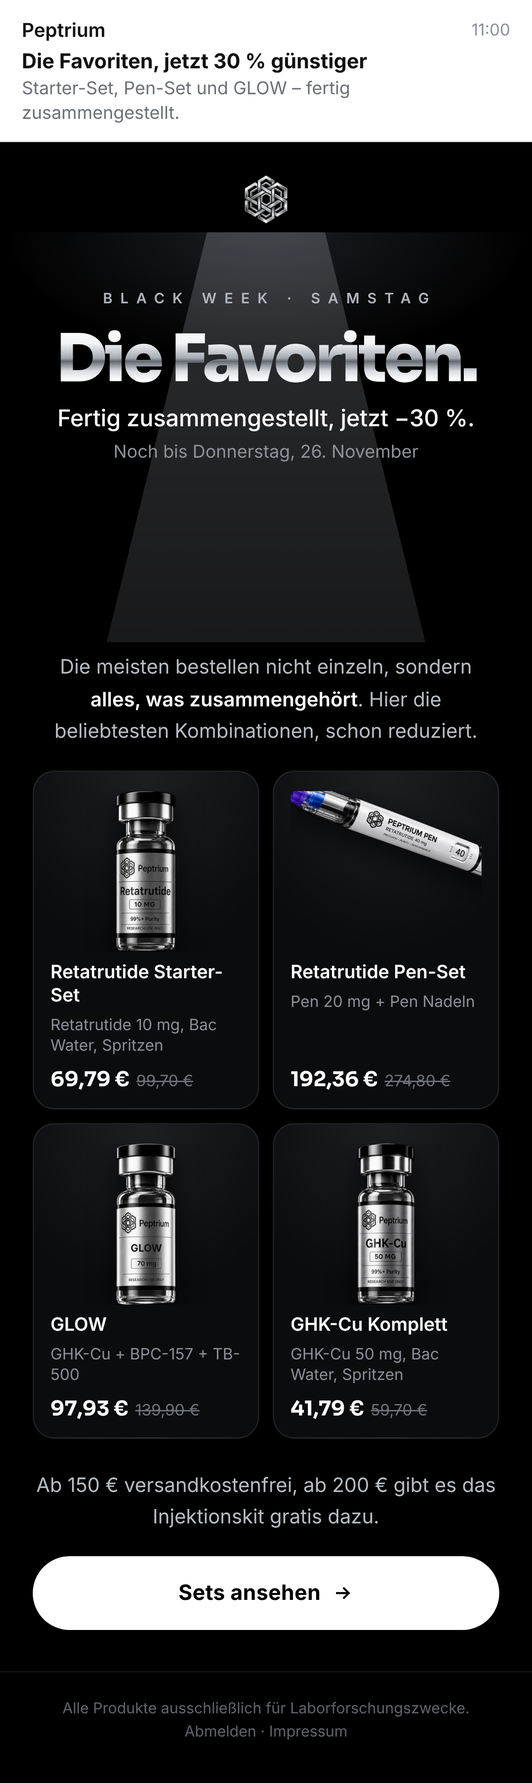
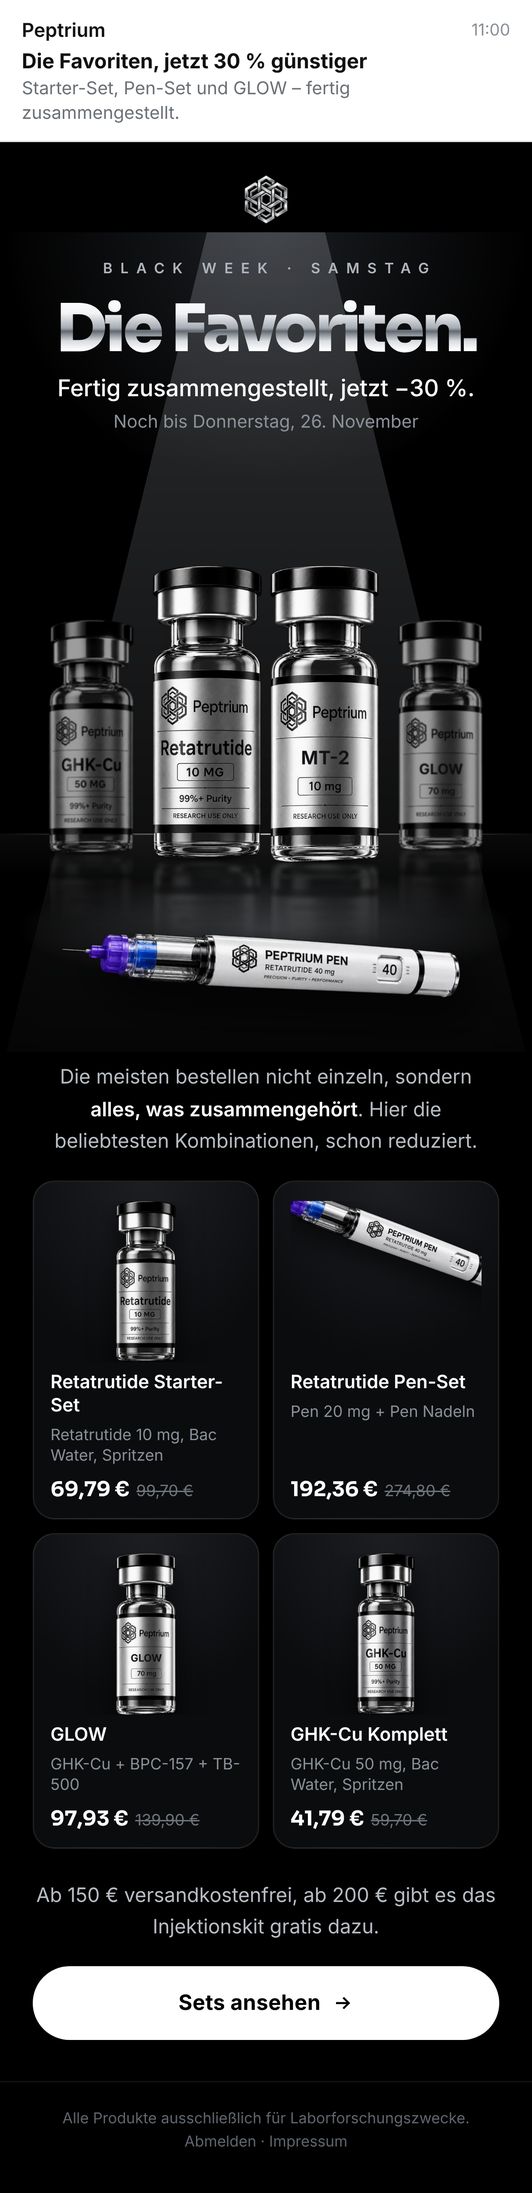
Black Week: 8 Mails überarbeitet (eigene Bilder je Mail, Start heute 20 Uhr)
Claude-Session: https://claude.ai/code/session_011YY7DBkbr5BcFGKyLoSbVN

diff --git a/drafts/blackweek-2026-11-16/hero/mail-5-blackfriday.html b/drafts/blackweek-2026-11-16/hero/mail-5-blackfriday.html
@@ -55,13 +55,7 @@ html,body{overflow-x:hidden}body{height:auto;min-height:844px;background:#0A0B0D
 .ps{font:400 12.5px/1.5 Inter;color:#7B8188;margin-top:18px}
 </style></head><body>
 <div class="inbox"><div class="f">Peptrium <span>08:00</span></div><div class="s">Black Friday: −35 % auf alles</div><div class="p">Der größte Rabatt des Jahres. Bis Montag.</div></div>
-<div class="m"><div class="ml"><img src="logo.png"></div><div class="sc2"><div class="beam"></div><div class="pool"></div><div class="floor"></div><div class="hz"></div>
- <div class="vw" data-src="ghk.png" data-rim="left" data-color="210,220,235" style="left:48px;top:350px;width:84px;filter:brightness(.62) blur(.4px)"></div>
- <div class="vw" data-src="glow.png" data-rim="right" data-color="210,220,235" style="left:258px;top:350px;width:84px;filter:brightness(.62) blur(.4px)"></div>
- <div class="vw" data-src="reta.png" data-rim="both" data-top="1" data-color="225,232,245" style="left:139px;top:300px;width:112px"></div>
- 
- <i class="dust" style="left:170px;top:200px;width:2px;height:2px;opacity:.5"></i><i class="dust" style="left:214px;top:260px;width:1.5px;height:1.5px;opacity:.35"></i><i class="dust" style="left:190px;top:320px;width:2.5px;height:2.5px;opacity:.25;filter:blur(1px)"></i><i class="dust" style="left:236px;top:160px;width:1.5px;height:1.5px;opacity:.45"></i><i class="dust" style="left:156px;top:290px;width:1px;height:1px;opacity:.6"></i>
- <div class="txt"><div class="ey">BLACK FRIDAY</div><div class="big chrome">−35<sup>%</sup></div><div class="l1">Der Höhepunkt der Black Week.</div><div class="l2">Nur bis Cyber Monday, 30. November · 23:59</div></div><div class="grain"></div></div>
+<div class="m"><div class="ml"><img src="logo.png"></div><div class="sc2" style="height:600px"><div class="beam" style="transform:translateX(-50%);background:linear-gradient(180deg,rgba(240,244,252,.30),rgba(220,228,240,.07) 70%,transparent)"></div><div class="pool" style="top:470px;transform:translateX(-50%)"></div><div class="floor" style="top:520px"></div><div class="hz" style="top:520px"></div><div class="txt"><div class="ey">BLACK FRIDAY · CYBER MONDAY</div><div class="big chrome">−35<sup>%</sup></div><div class="l1">Der Höhepunkt der Black Week.</div><div class="l2">Nur bis Montag, 30. November · 23:59</div></div><div class="vw" data-src="bpc.png" data-rim="left" data-color="215,225,240"  style="left:6px;top:372px;width:64px;filter:brightness(.62) blur(.4px);"></div><div class="vw" data-src="mt2.png" data-rim="right" data-color="215,225,240"  style="left:320px;top:372px;width:64px;filter:brightness(.62) blur(.4px);"></div><div class="vw" data-src="ghk.png" data-rim="left" data-color="215,225,240"  style="left:62px;top:336px;width:80px;"></div><div class="vw" data-src="glow.png" data-rim="right" data-color="215,225,240"  style="left:248px;top:336px;width:80px;"></div><div class="vw" data-src="reta.png" data-rim="both" data-color="215,225,240" data-top=1 style="left:140px;top:296px;width:110px;"></div><div class="grain"></div></div>
 <div class="bd"><p>Ab jetzt <b>−35 % auf das gesamte Sortiment</b> – Peptide, Pens und Zubehör. Ohne Code, direkt im Preis.</p><div class="cards"><div class="card"><div class="im"><img src="reta.png"></div><b>Retatrutide Starter-Set</b><span>Retatrutide 10 mg, Bac Water, Spritzen</span><div class="pp">64,81 €<s>99,70 €</s></div></div><div class="card"><div class="im"><img class="penimg" src="pen.png"></div><b>Retatrutide Pen-Set</b><span>Pen 20 mg + Pen Nadeln</span><div class="pp">178,62 €<s>274,80 €</s></div></div><div class="card"><div class="im"><img src="glow.png"></div><b>GLOW</b><span>GHK-Cu + BPC-157 + TB-500</span><div class="pp">90,94 €<s>139,90 €</s></div></div><div class="card"><div class="im"><img src="ghk.png"></div><b>GHK-Cu Komplett</b><span>GHK-Cu 50 mg, Bac Water, Spritzen</span><div class="pp">38,80 €<s>59,70 €</s></div></div></div><div class="ck"><div>Versand in 2 Werktagen, diskret verpackt</div><div>Geschenke ab 200 € bleiben</div><div>Bei Vorkasse zählt das Bestelldatum</div></div><div class="cta">Zum Black Friday<svg viewBox="0 0 24 24"><path d="M5 12h14M13 6l6 6-6 6"/></svg></div></div>
 <div class="ft">Alle Produkte ausschließlich für Laborforschungszwecke.<br>Abmelden · Impressum</div></div>
 <script src="vial.js"></script></body></html>

diff --git a/drafts/blackweek-2026-11-16/hero/mail-1-start.html b/drafts/blackweek-2026-11-16/hero/mail-1-start.html
@@ -54,7 +54,7 @@ html,body{overflow-x:hidden}body{height:auto;min-height:844px;background:#0A0B0D
 .ft{font:400 11px/1.5 Inter;color:#5F656C;text-align:center;padding:18px 24px 30px;border-top:1px solid rgba(255,255,255,.07)}
 .ps{font:400 12.5px/1.5 Inter;color:#7B8188;margin-top:18px}
 </style></head><body>
-<div class="inbox"><div class="f">Peptrium <span>00:05</span></div><div class="s">Black Week: −30 % auf alles</div><div class="p">Peptide, Pens und Zubehör – automatisch reduziert.</div></div>
+<div class="inbox"><div class="f">Peptrium <span>20:00</span></div><div class="s">Black Week: −30 % auf alles 🖤</div><div class="p">Ab jetzt: Peptide, Pens und Zubehör – automatisch reduziert.</div></div>
 <div class="m"><div class="ml"><img src="logo.png"></div><div class="sc2"><div class="beam"></div><div class="pool"></div><div class="floor"></div><div class="hz"></div>
  <div class="vw" data-src="ghk.png" data-rim="left" data-color="210,220,235" style="left:48px;top:350px;width:84px;filter:brightness(.62) blur(.4px)"></div>
  <div class="vw" data-src="glow.png" data-rim="right" data-color="210,220,235" style="left:258px;top:350px;width:84px;filter:brightness(.62) blur(.4px)"></div>
@@ -62,6 +62,6 @@ html,body{overflow-x:hidden}body{height:auto;min-height:844px;background:#0A0B0D
  
  <i class="dust" style="left:170px;top:200px;width:2px;height:2px;opacity:.5"></i><i class="dust" style="left:214px;top:260px;width:1.5px;height:1.5px;opacity:.35"></i><i class="dust" style="left:190px;top:320px;width:2.5px;height:2.5px;opacity:.25;filter:blur(1px)"></i><i class="dust" style="left:236px;top:160px;width:1.5px;height:1.5px;opacity:.45"></i><i class="dust" style="left:156px;top:290px;width:1px;height:1px;opacity:.6"></i>
  <div class="txt"><div class="ey">BLACK WEEK</div><div class="big chrome">−30<sup>%</sup></div><div class="l1">auf das gesamte Sortiment.</div><div class="l2">Bis Donnerstag, 26. November</div></div><div class="grain"></div></div>
-<div class="bd"><p>Ab heute ist <b>jedes Produkt 30 % günstiger</b>. Ohne Code, direkt im Preis. Die Geschenke ab 200 € gibt es weiterhin dazu.</p><div class="pl"></div><div class="pr"><div>Retatrutide<br><span>10 mg</span></div><div><s>79,90 €</s><b>55,93 €</b></div></div><div class="pr"><div>Retatrutide<br><span>20 mg</span></div><div><s>149,90 €</s><b>104,93 €</b></div></div><div class="pr"><div>GHK-Cu<br><span>50 mg</span></div><div><s>39,90 €</s><b>27,93 €</b></div></div><div class="pr"><div>GLOW<br><span>70 mg</span></div><div><s>139,90 €</s><b>97,93 €</b></div></div><div class="pr"><div>Peptrium-Pen<br><span>Retatrutide 20 mg</span></div><div><s>264,90 €</s><b>185,43 €</b></div></div><p class="ps">Und Freitag? Wird es noch besser. Du erfährst es zuerst.</p><div class="cta">Zum Shop<svg viewBox="0 0 24 24"><path d="M5 12h14M13 6l6 6-6 6"/></svg></div></div>
+<div class="bd"><p>Ab sofort ist <b>jedes Produkt 30 % günstiger</b> – bis Donnerstag, 26. November. Ohne Code, direkt im Preis. Die Geschenke ab 200 € gibt es weiterhin dazu.</p><div class="pl"></div><div class="pr"><div>Retatrutide<br><span>10 mg</span></div><div><s>79,90 €</s><b>55,93 €</b></div></div><div class="pr"><div>Retatrutide<br><span>20 mg</span></div><div><s>149,90 €</s><b>104,93 €</b></div></div><div class="pr"><div>GHK-Cu<br><span>50 mg</span></div><div><s>39,90 €</s><b>27,93 €</b></div></div><div class="pr"><div>GLOW<br><span>70 mg</span></div><div><s>139,90 €</s><b>97,93 €</b></div></div><div class="pr"><div>Peptrium-Pen<br><span>Retatrutide 20 mg</span></div><div><s>264,90 €</s><b>185,43 €</b></div></div><p class="ps">Und Freitag? Wird es noch besser. Du erfährst es zuerst.</p><div class="cta">Zum Shop<svg viewBox="0 0 24 24"><path d="M5 12h14M13 6l6 6-6 6"/></svg></div></div>
 <div class="ft">Alle Produkte ausschließlich für Laborforschungszwecke.<br>Abmelden · Impressum</div></div>
 <script src="vial.js"></script></body></html>

diff --git a/drafts/blackweek-2026-11-16/hero/mail-2-favoriten.html b/drafts/blackweek-2026-11-16/hero/mail-2-favoriten.html
@@ -55,7 +55,7 @@ html,body{overflow-x:hidden}body{height:auto;min-height:844px;background:#0A0B0D
 .ps{font:400 12.5px/1.5 Inter;color:#7B8188;margin-top:18px}
 </style></head><body>
 <div class="inbox"><div class="f">Peptrium <span>11:00</span></div><div class="s">Die Favoriten, jetzt 30 % günstiger</div><div class="p">Starter-Set, Pen-Set und GLOW – fertig zusammengestellt.</div></div>
-<div class="m"><div class="ml"><img src="logo.png"></div><div class="sc2 sm"><div class="beam" style="display:block;transform:translateX(-50%)"></div><div class="txt" style="top:44px"><div class="ey">BLACK WEEK · SAMSTAG</div><div class="big2 chrome">Die Favoriten.</div><div class="l1">Fertig zusammengestellt, jetzt −30 %.</div><div class="l2">Noch bis Donnerstag, 26. November</div></div><div class="grain"></div></div>
+<div class="m"><div class="ml"><img src="logo.png"></div><div class="sc2" style="height:600px"><div class="beam" style="transform:translateX(-50%);"></div><div class="pool" style="top:450px;transform:translateX(-50%)"></div><div class="floor" style="top:500px"></div><div class="hz" style="top:500px"></div><div class="txt"><div class="ey">BLACK WEEK · SAMSTAG</div><div class="big2 chrome">Die Favoriten.</div><div class="l1">Fertig zusammengestellt, jetzt −30 %.</div><div class="l2">Noch bis Donnerstag, 26. November</div></div><div class="vw" data-src="ghk.png" data-rim="left" data-color="215,225,240"  style="left:36px;top:344px;width:62px;filter:brightness(.62) blur(.4px);"></div><div class="vw" data-src="glow.png" data-rim="right" data-color="215,225,240"  style="left:292px;top:344px;width:62px;filter:brightness(.62) blur(.4px);"></div><div class="vw" data-src="reta.png" data-rim="left" data-color="215,225,240"  style="left:112px;top:304px;width:80px;"></div><div class="vw" data-src="mt2.png" data-rim="right" data-color="215,225,240"  style="left:198px;top:304px;width:80px;"></div><img src="pen.png" style="position:absolute;left:50%;top:446px;width:250px;margin-left:-125px;transform:rotate(-31deg);filter:drop-shadow(0 18px 16px rgba(0,0,0,.85));z-index:6"><div class="grain"></div></div>
 <div class="bd"><p>Die meisten bestellen nicht einzeln, sondern <b>alles, was zusammengehört</b>. Hier die beliebtesten Kombinationen, schon reduziert.</p><div class="cards"><div class="card"><div class="im"><img src="reta.png"></div><b>Retatrutide Starter-Set</b><span>Retatrutide 10 mg, Bac Water, Spritzen</span><div class="pp">69,79 €<s>99,70 €</s></div></div><div class="card"><div class="im"><img class="penimg" src="pen.png"></div><b>Retatrutide Pen-Set</b><span>Pen 20 mg + Pen Nadeln</span><div class="pp">192,36 €<s>274,80 €</s></div></div><div class="card"><div class="im"><img src="glow.png"></div><b>GLOW</b><span>GHK-Cu + BPC-157 + TB-500</span><div class="pp">97,93 €<s>139,90 €</s></div></div><div class="card"><div class="im"><img src="ghk.png"></div><b>GHK-Cu Komplett</b><span>GHK-Cu 50 mg, Bac Water, Spritzen</span><div class="pp">41,79 €<s>59,70 €</s></div></div></div><p>Ab 150 € versandkostenfrei, ab 200 € gibt es das Injektionskit gratis dazu.</p><div class="cta">Sets ansehen<svg viewBox="0 0 24 24"><path d="M5 12h14M13 6l6 6-6 6"/></svg></div></div>
 <div class="ft">Alle Produkte ausschließlich für Laborforschungszwecke.<br>Abmelden · Impressum</div></div>
 <script src="vial.js"></script></body></html>

diff --git a/drafts/blackweek-2026-11-16/hero/mail-7-letzte.html b/drafts/blackweek-2026-11-16/hero/mail-7-letzte.html
@@ -55,7 +55,7 @@ html,body{overflow-x:hidden}body{height:auto;min-height:844px;background:#0A0B0D
 .ps{font:400 12.5px/1.5 Inter;color:#7B8188;margin-top:18px}
 </style></head><body>
 <div class="inbox"><div class="f">Peptrium <span>10:00</span></div><div class="s">Heute 23:59 ist Schluss</div><div class="p">Letzter Tag: −35 % auf alles.</div></div>
-<div class="m"><div class="ml"><img src="logo.png"></div><div class="sc2 sm"><div class="beam" style="display:block;transform:translateX(-50%)"></div><div class="txt" style="top:44px"><div class="ey">CYBER MONDAY · LETZTER TAG</div><div class="big2 chrome">Letzter Tag.</div><div class="l1">−35 % nur noch bis 23:59.</div><div class="l2">Danach gelten wieder die normalen Preise.</div></div><div class="grain"></div></div>
+<div class="m"><div class="ml"><img src="logo.png"></div><div class="sc2" style="height:500px"><div class="beam" style="transform:translateX(-50%);"></div><div class="pool" style="top:380px;transform:translateX(-50%)"></div><div class="floor" style="top:430px"></div><div class="hz" style="top:430px"></div><div class="txt" style="top:34px"><div class="ey">CYBER MONDAY · LETZTER TAG</div><div class="big chrome" style="font-size:112px;letter-spacing:-.04em">23:59</div><div class="l1">Heute endet die Black Week.</div><div class="l2">Danach gelten wieder die normalen Preise.</div></div><div class="vw" data-src="ghk.png" data-rim="left" data-color="215,225,240"  style="left:70px;top:316px;width:66px;filter:brightness(.62) blur(.4px);"></div><div class="vw" data-src="glow.png" data-rim="right" data-color="215,225,240"  style="left:254px;top:316px;width:66px;filter:brightness(.62) blur(.4px);"></div><div class="vw" data-src="reta.png" data-rim="both" data-color="215,225,240" data-top=1 style="left:148px;top:276px;width:94px;"></div><div class="grain"></div></div>
 <div class="bd"><div class="cd"><div><b>00</b><span>TAGE</span></div><div><b>13</b><span>STD</span></div><div><b>59</b><span>MIN</span></div><div><b>12</b><span>SEK</span></div></div><p>Das war die Black Week 2026. Wenn du noch etwas brauchst: <b>heute ist der letzte Tag</b>.</p><div class="cards"><div class="card"><div class="im"><img src="reta.png"></div><b>Retatrutide Starter-Set</b><span>Retatrutide 10 mg, Bac Water, Spritzen</span><div class="pp">64,81 €<s>99,70 €</s></div></div><div class="card"><div class="im"><img class="penimg" src="pen.png"></div><b>Retatrutide Pen-Set</b><span>Pen 20 mg + Pen Nadeln</span><div class="pp">178,62 €<s>274,80 €</s></div></div><div class="card"><div class="im"><img src="glow.png"></div><b>GLOW</b><span>GHK-Cu + BPC-157 + TB-500</span><div class="pp">90,94 €<s>139,90 €</s></div></div><div class="card"><div class="im"><img src="ghk.png"></div><b>GHK-Cu Komplett</b><span>GHK-Cu 50 mg, Bac Water, Spritzen</span><div class="pp">38,80 €<s>59,70 €</s></div></div></div><div class="ck"><div>Es zählt deine Bestellung, nicht der Zahlungseingang</div><div>Versand in 2 Werktagen</div></div><div class="cta">Letzte Chance nutzen<svg viewBox="0 0 24 24"><path d="M5 12h14M13 6l6 6-6 6"/></svg></div></div>
 <div class="ft">Alle Produkte ausschließlich für Laborforschungszwecke.<br>Abmelden · Impressum</div></div>
 <script src="vial.js"></script></body></html>

diff --git a/drafts/blackweek-2026-11-16/hero/mail-3-teaser.html b/drafts/blackweek-2026-11-16/hero/mail-3-teaser.html
@@ -55,7 +55,7 @@ html,body{overflow-x:hidden}body{height:auto;min-height:844px;background:#0A0B0D
 .ps{font:400 12.5px/1.5 Inter;color:#7B8188;margin-top:18px}
 </style></head><body>
 <div class="inbox"><div class="f">Peptrium <span>18:00</span></div><div class="s">Morgen 18 Uhr: dein früher Zugang</div><div class="p">Black Friday startet für dich einen Abend vor allen anderen.</div></div>
-<div class="m"><div class="ml"><img src="logo.png"></div><div class="sc2 sm"><div class="beam" style="display:block;transform:translateX(-50%)"></div><div class="txt" style="top:44px"><div class="ey">NUR FÜR INSIDER</div><div class="big2 chrome">Morgen, 18 Uhr.</div><div class="l1">Black Friday – für dich zuerst.</div><div class="l2">Donnerstag, 26. November</div></div><div class="grain"></div></div>
-<div class="bd"><p>Freitag steigt der Rabatt. <b>Du bekommst ihn schon Donnerstag um 18 Uhr</b> – per Mail, mit deinem persönlichen Link.</p><div class="tl"><div class="on"><b>Bis Do</b>−30 % für alle</div><div class="on"><b>Do 18 Uhr</b>du zuerst</div><div><b>Fr–Mo</b>für alle</div></div><p>Tipp: Leg dir heute schon in den Warenkorb, was du willst. Dann geht es morgen in einer Minute.</p><div class="cta">Warenkorb vorbereiten<svg viewBox="0 0 24 24"><path d="M5 12h14M13 6l6 6-6 6"/></svg></div></div>
+<div class="m"><div class="ml"><img src="logo.png"></div><div class="sc2" style="height:520px"><div class="beam" style="transform:translateX(-50%);"></div><div class="pool" style="top:400px;transform:translateX(-50%)"></div><div class="floor" style="top:450px"></div><div class="hz" style="top:450px"></div><div class="txt" style="top:40px"><div class="ey">NUR FÜR INSIDER</div><div class="big chrome" style="font-size:120px">−3?<sup>%</sup></div><div class="l1">Freitag wird größer.</div><div class="l2">Und du bist einen Abend früher dran.</div></div><div class="vw" data-src="reta.png" data-rim="both" data-color="215,225,240" data-top=1 style="left:150px;top:300px;width:90px;"></div><div class="grain"></div></div>
+<div class="bd"><p>Am Freitag steigt der Rabatt. Wie hoch, verraten wir morgen. <b>Du bekommst ihn schon Donnerstag um 18 Uhr</b> – per Mail, mit deinem persönlichen Link.</p><div class="tl"><div class="on"><b>Bis Do</b>−30 % für alle</div><div class="on"><b>Do 18 Uhr</b>du zuerst</div><div><b>Fr–Mo</b>für alle</div></div><p>Tipp: Leg dir heute schon in den Warenkorb, was du willst. Dann geht es morgen in einer Minute.</p><div class="cta">Warenkorb vorbereiten<svg viewBox="0 0 24 24"><path d="M5 12h14M13 6l6 6-6 6"/></svg></div></div>
 <div class="ft">Alle Produkte ausschließlich für Laborforschungszwecke.<br>Abmelden · Impressum</div></div>
 <script src="vial.js"></script></body></html>

diff --git a/drafts/blackweek-2026-11-16/hero/gen_mails.py b/drafts/blackweek-2026-11-16/hero/gen_mails.py
@@ -67,32 +67,47 @@ def hero_pen(ey,big,l1,l2):
 def penlist(f):
     rows=[('Peptrium-Pen Retatrutide','20 mg',264.90),('Peptrium-Pen Retatrutide','30 mg',None),('Peptrium-Pen GHK-Cu','50 mg',None),('Peptrium-Pen MOTS-c','20 mg',None)]
     return ''
+def vial(src,l,top,w,dim=False,rim='both',topl=False):
+    f='filter:brightness(.62) blur(.4px);' if dim else ''
+    return f'<div class="vw" data-src="{src}" data-rim="{rim}" data-color="215,225,240" {"data-top=1" if topl else ""} style="left:{l}px;top:{top}px;width:{w}px;{f}"></div>'
+def stage(h,beam=True,bright=False,floor=None):
+    fl=floor if floor is not None else h-90
+    b=f'<div class="beam" style="transform:translateX(-50%);{"background:linear-gradient(180deg,rgba(240,244,252,.30),rgba(220,228,240,.07) 70%,transparent)" if bright else ""}"></div>' if beam else ''
+    return b+f'<div class="pool" style="top:{fl-50}px;transform:translateX(-50%)"></div><div class="floor" style="top:{fl}px"></div><div class="hz" style="top:{fl}px"></div>'
+def hero_sets(ey,big,l1,l2):
+    return f'<div class="sc2" style="height:600px">{stage(600,floor=500)}<div class="txt"><div class="ey">{ey}</div><div class="big2 chrome">{big}</div><div class="l1">{l1}</div><div class="l2">{l2}</div></div>'+vial('ghk.png',36,344,62,True,'left')+vial('glow.png',292,344,62,True,'right')+vial('reta.png',112,304,80,False,'left')+vial('mt2.png',198,304,80,False,'right')+'<img src="pen.png" style="position:absolute;left:50%;top:446px;width:250px;margin-left:-125px;transform:rotate(-31deg);filter:drop-shadow(0 18px 16px rgba(0,0,0,.85));z-index:6"><div class="grain"></div></div>'
+def hero_teaser():
+    return f'<div class="sc2" style="height:520px">{stage(520,floor=450)}<div class="txt" style="top:40px"><div class="ey">NUR FÜR INSIDER</div><div class="big chrome" style="font-size:120px">−3?<sup>%</sup></div><div class="l1">Freitag wird größer.</div><div class="l2">Und du bist einen Abend früher dran.</div></div>'+vial('reta.png',150,300,90,False,'both',True)+'<div class="grain"></div></div>'
+def hero_bf():
+    return f'<div class="sc2" style="height:600px">{stage(600,bright=True,floor=520)}<div class="txt"><div class="ey">BLACK FRIDAY · CYBER MONDAY</div><div class="big chrome">−35<sup>%</sup></div><div class="l1">Der Höhepunkt der Black Week.</div><div class="l2">Nur bis Montag, 30. November · 23:59</div></div>'+vial('bpc.png',6,372,64,True,'left')+vial('mt2.png',320,372,64,True,'right')+vial('ghk.png',62,336,80,False,'left')+vial('glow.png',248,336,80,False,'right')+vial('reta.png',140,296,110,False,'both',True)+'<div class="grain"></div></div>'
+def hero_last():
+    return f'<div class="sc2" style="height:500px">{stage(500,floor=430)}<div class="txt" style="top:34px"><div class="ey">CYBER MONDAY · LETZTER TAG</div><div class="big chrome" style="font-size:112px;letter-spacing:-.04em">23:59</div><div class="l1">Heute endet die Black Week.</div><div class="l2">Danach gelten wieder die normalen Preise.</div></div>'+vial('ghk.png',70,316,66,True,'left')+vial('glow.png',254,316,66,True,'right')+vial('reta.png',148,276,94,False,'both',True)+'<div class="grain"></div></div>'
 M={}
-M['1-start']=mail('Black Week: −30 % auf alles','Peptide, Pens und Zubehör – automatisch reduziert.',
+M['1-start']=mail('Black Week: −30 % auf alles 🖤','Ab jetzt: Peptide, Pens und Zubehör – automatisch reduziert.',
  hero_scene('BLACK WEEK',30,'auf das gesamte Sortiment.','Bis Donnerstag, 26. November'),
- '<p>Ab heute ist <b>jedes Produkt 30 % günstiger</b>. Ohne Code, direkt im Preis. Die Geschenke ab 200 € gibt es weiterhin dazu.</p>'+plist(.7)+'<p class="ps">Und Freitag? Wird es noch besser. Du erfährst es zuerst.</p>','Zum Shop','00:05')
+ '<p>Ab sofort ist <b>jedes Produkt 30 % günstiger</b> – bis Donnerstag, 26. November. Ohne Code, direkt im Preis. Die Geschenke ab 200 € gibt es weiterhin dazu.</p>'+plist(.7)+'<p class="ps">Und Freitag? Wird es noch besser. Du erfährst es zuerst.</p>','Zum Shop','20:00')
 M['1b-pen']=mail('Halbzeit: der Pen, jetzt −30 %','Fertig gemischt, kein Anmischen – noch bis Donnerstag.',
  hero_pen('BLACK WEEK · HALBZEIT','Der Pen.','Fertig gemischt. Jetzt −30 %.','Noch bis Donnerstag, 26. November'),
  '<p>Kein Bac Water, kein Anmischen: <b>der Peptrium-Pen kommt fertig gemischt</b>. In der Black Week ist auch er <b>30 % günstiger</b>.</p><div class="pl"></div>'
  +''.join(f'<div class="pr"><div>{n}<br><span>{v}</span></div><div><s>{eur(p)}</s><b>{eur(p*.7)}</b></div></div>' for n,v,p in [('Pen Retatrutide','20 mg',264.90),('Pen Retatrutide','40 mg',339.90),('Pen GHK-Cu','50 mg',169.90),('Pen MOTS-c','20 mg',189.90)])
  +'<div class="ck" style="margin-top:20px"><div>Pen Nadeln gleich mitbestellen – auch −30 %</div><div>Ab 200 € gibt es das Injektionskit gratis dazu</div><div>Versand in 2 Werktagen, diskret verpackt</div></div>','Pens ansehen','18:00')
 M['2-favoriten']=mail('Die Favoriten, jetzt 30 % günstiger','Starter-Set, Pen-Set und GLOW – fertig zusammengestellt.',
- hero_text('BLACK WEEK · SAMSTAG','Die Favoriten.','Fertig zusammengestellt, jetzt −30 %.','Noch bis Donnerstag, 26. November'),
+ hero_sets('BLACK WEEK · SAMSTAG','Die Favoriten.','Fertig zusammengestellt, jetzt −30 %.','Noch bis Donnerstag, 26. November'),
  '<p>Die meisten bestellen nicht einzeln, sondern <b>alles, was zusammengehört</b>. Hier die beliebtesten Kombinationen, schon reduziert.</p>'+sets(.7)+'<p>Ab 150 € versandkostenfrei, ab 200 € gibt es das Injektionskit gratis dazu.</p>','Sets ansehen','11:00')
 M['3-teaser']=mail('Morgen 18 Uhr: dein früher Zugang','Black Friday startet für dich einen Abend vor allen anderen.',
- hero_text('NUR FÜR INSIDER','Morgen, 18 Uhr.','Black Friday – für dich zuerst.','Donnerstag, 26. November'),
- '<p>Freitag steigt der Rabatt. <b>Du bekommst ihn schon Donnerstag um 18 Uhr</b> – per Mail, mit deinem persönlichen Link.</p><div class="tl"><div class="on"><b>Bis Do</b>−30 % für alle</div><div class="on"><b>Do 18 Uhr</b>du zuerst</div><div><b>Fr–Mo</b>für alle</div></div><p>Tipp: Leg dir heute schon in den Warenkorb, was du willst. Dann geht es morgen in einer Minute.</p>','Warenkorb vorbereiten','18:00')
+ hero_teaser(),
+ '<p>Am Freitag steigt der Rabatt. Wie hoch, verraten wir morgen. <b>Du bekommst ihn schon Donnerstag um 18 Uhr</b> – per Mail, mit deinem persönlichen Link.</p><div class="tl"><div class="on"><b>Bis Do</b>−30 % für alle</div><div class="on"><b>Do 18 Uhr</b>du zuerst</div><div><b>Fr–Mo</b>für alle</div></div><p>Tipp: Leg dir heute schon in den Warenkorb, was du willst. Dann geht es morgen in einer Minute.</p>','Warenkorb vorbereiten','18:00')
 M['4-insider']=mail('Für dich schon heute: −35 % 🖤','Black Friday startet für alle erst morgen.',
  hero_scene('NUR FÜR INSIDER',35,'Black Friday – einen Abend früher.','Ab heute 18 Uhr · bis Cyber Monday, 30.11.',True),
  '<p>Du bist im Newsletter, also bist du <b>einen Abend früher dran</b>. Ab sofort gilt für dich <b>−35 % auf alles</b>.</p>'+plist(.65)+'<p class="ps">Bestseller sind am Freitagmorgen erfahrungsgemäß zuerst weg.</p>','Jetzt −35 % sichern','18:00')
 M['5-blackfriday']=mail('Black Friday: −35 % auf alles','Der größte Rabatt des Jahres. Bis Montag.',
- hero_scene('BLACK FRIDAY',35,'Der Höhepunkt der Black Week.','Nur bis Cyber Monday, 30. November · 23:59',True),
+ hero_bf(),
  '<p>Ab jetzt <b>−35 % auf das gesamte Sortiment</b> – Peptide, Pens und Zubehör. Ohne Code, direkt im Preis.</p>'+sets(.65)+'<div class="ck"><div>Versand in 2 Werktagen, diskret verpackt</div><div>Geschenke ab 200 € bleiben</div><div>Bei Vorkasse zählt das Bestelldatum</div></div>','Zum Black Friday','08:00')
 M['6-sonntag']=mail('Noch bis Montag: −35 %','Falls du noch überlegst – hier das Wichtigste auf einen Blick.',
  hero_text('BLACK FRIDAY · SONNTAG','Noch 1 Tag.','−35 % auf alles, bis Montag 23:59.','Danach gelten wieder die normalen Preise.'),
  cd('01','12','47','08')+'<p>Ein kurzer Überblick, was du <b>im Vergleich zu sonst</b> sparst:</p>'+plist(.65)+'<p class="ps">Fragen vor der Bestellung? Schreib uns auf Telegram, wir antworten schnell.</p>','Jetzt bestellen','11:00')
 M['7-letzte']=mail('Heute 23:59 ist Schluss','Letzter Tag: −35 % auf alles.',
- hero_text('CYBER MONDAY · LETZTER TAG','Letzter Tag.','−35 % nur noch bis 23:59.','Danach gelten wieder die normalen Preise.'),
+ hero_last(),
  cd('00','13','59','12')+'<p>Das war die Black Week 2026. Wenn du noch etwas brauchst: <b>heute ist der letzte Tag</b>.</p>'+sets(.65)+'<div class="ck"><div>Es zählt deine Bestellung, nicht der Zahlungseingang</div><div>Versand in 2 Werktagen</div></div>','Letzte Chance nutzen','10:00')
 for k,v in M.items(): open(f'mail-{k}.html','w').write(v)
 print(list(M))
